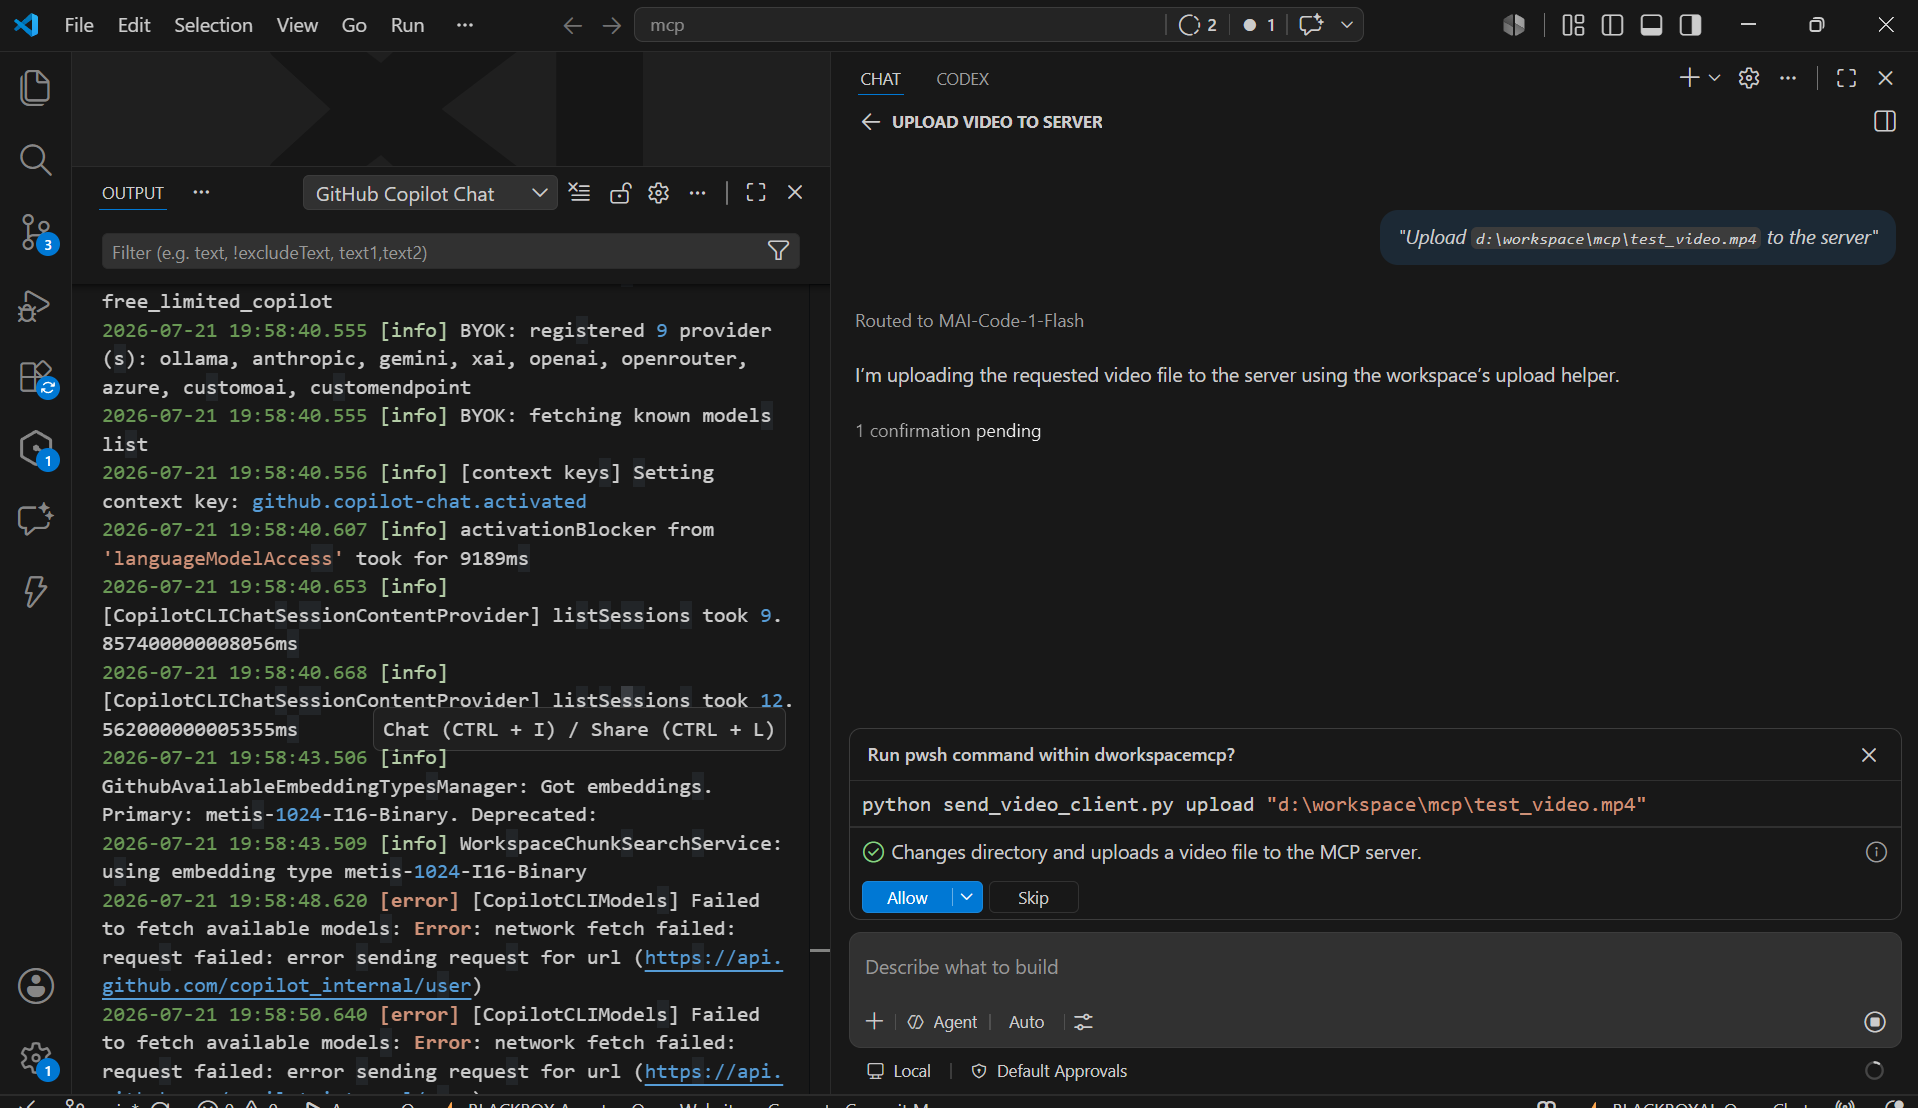
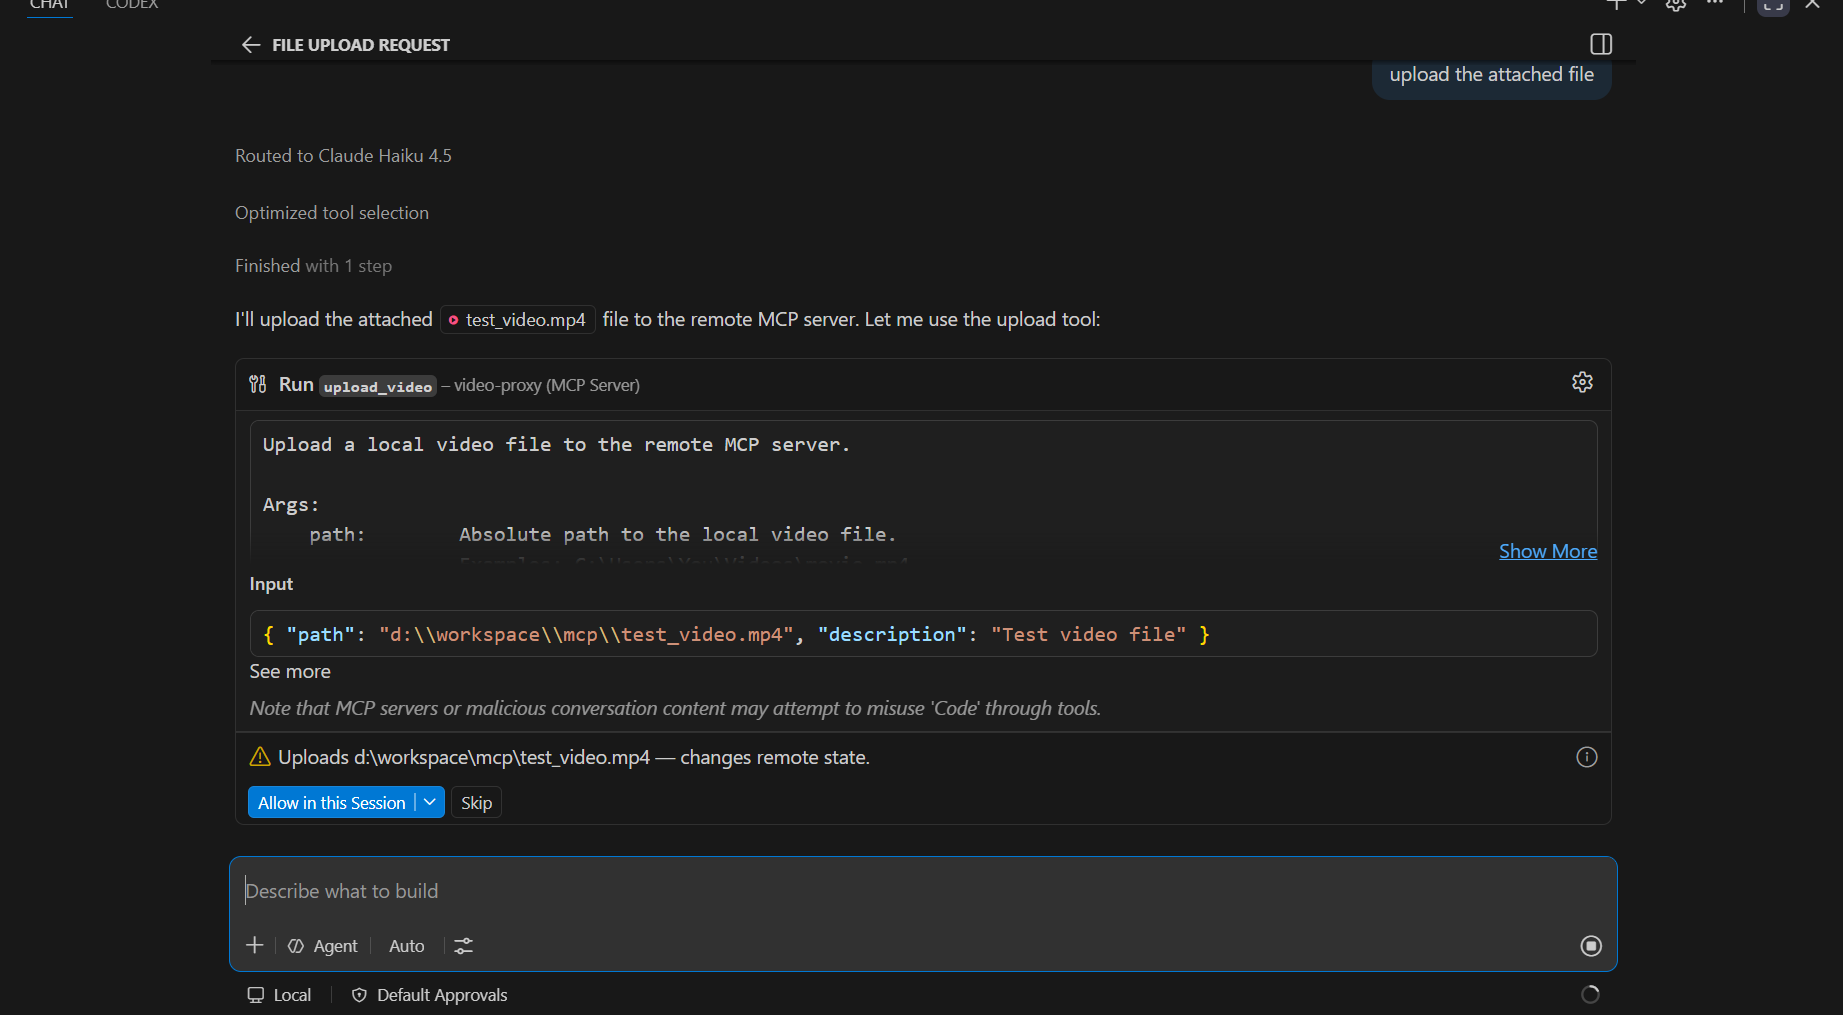
UPDATED README.md FILE

diff --git a/README.md b/README.md
@@ -276,7 +276,8 @@ both pick it up automatically on startup:
 ### VS Code — uploading a video
 
 ![VS Code upload demo](assets/images/image.png)
-
+![alt text](assets/images/image-6.png)
+![alt text](assets/images/image-7.png)
 After the upload completes, the server confirms the file name, size, and saved path:
 
 ![VS Code upload result](assets/images/image-3.png)